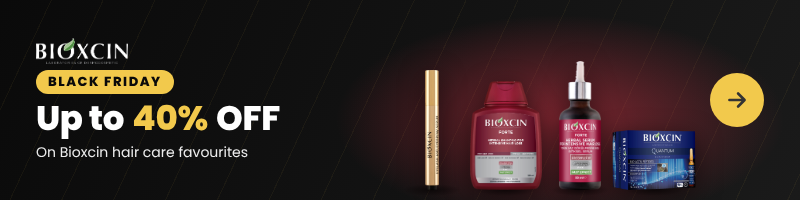
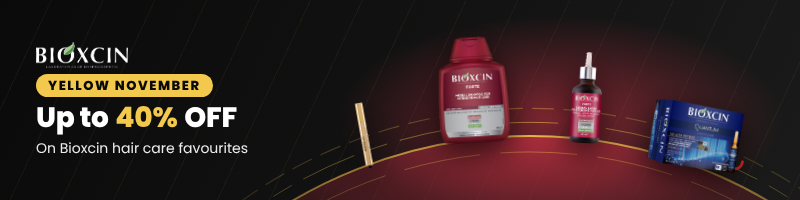
Offer 1: arc layout in all sizes, empty spot for 3D 40%, Yellow November sticker and badge, SALE ribbon and confetti
Claude-Session: https://claude.ai/code/session_01MejyVmSq2aYVYmituLqweB

Changed region(s): [[0.3438, 0.18, 0.9688, 1.0], [0.0312, 0.21, 0.375, 0.81], [0.375, 0.84, 0.4062, 0.87]]

diff --git a/banners/banners.js b/banners/banners.js
@@ -26,6 +26,9 @@ function stickerHTML(offer, lang) {
   const long = Math.max(l1.length, l2.length) > 5;
   const fs = long ? 22 : 34;
   const gid = `bfg-${offer.id}-${lang}`;
+  const [w1, w2] = offer.sticker ?? ["BLACK", "FRIDAY"];
+  const yellow = w1 === "YELLOW";
+  const c1 = yellow ? "#f5c518" : "#d42a2a", c2 = yellow ? "#111" : "#d42a2a";
   // Extruded 3D text: stacked dark copies under a white face.
   const line3d = (t, x, y, size) => {
     const attrs = `text-anchor="middle" font-family="${badgeFont}, sans-serif" font-weight="900" font-size="${size}"`;
@@ -37,12 +40,12 @@ function stickerHTML(offer, lang) {
     <div class="bf-sticker">
       <svg viewBox="0 0 450 350" xmlns="http://www.w3.org/2000/svg">
         <g transform="rotate(-24 210 170)">
-          <path d="M28 168 l14 26 29 4 -21 20 5 29 -27 -14 -26 14 5 -29 -21 -20 29 -4z" fill="#d42a2a"/>
-          <path d="M100 70 H370 L346 112 L370 154 H100 Z" fill="#d42a2a"/>
-          <text x="220" y="128" text-anchor="middle" font-family="Poppins, sans-serif" font-weight="500" font-size="56" fill="#111">BLACK</text>
+          <path d="M28 168 l14 26 29 4 -21 20 5 29 -27 -14 -26 14 5 -29 -21 -20 29 -4z" fill="${c1}"/>
+          <path d="M100 70 H370 L346 112 L370 154 H100 Z" fill="${c1}"/>
+          <text x="220" y="128" text-anchor="middle" font-family="Poppins, sans-serif" font-weight="600" font-size="56" fill="#111" ${w1.length > 5 ? `textLength="220" lengthAdjust="spacingAndGlyphs"` : ""}>${w1}</text>
           <path d="M120 146 q 18 -16 36 0 t 36 0 t 36 0 t 36 0 t 36 0 t 36 0" fill="none" stroke="#fff" stroke-width="9" stroke-linecap="round"/>
           <path d="M80 160 H330 Q340 200 332 240 H86 Q92 220 76 204 Q92 186 80 160 Z" fill="#fff"/>
-          <text x="208" y="222" text-anchor="middle" font-family="Poppins, sans-serif" font-weight="500" font-size="54" fill="#d42a2a">FRIDAY</text>
+          <text x="208" y="222" text-anchor="middle" font-family="Poppins, sans-serif" font-weight="600" font-size="54" fill="${c2}" ${w2.length > 6 ? `textLength="228" lengthAdjust="spacingAndGlyphs"` : ""}>${w2}</text>
         </g>
         ${l1 ? `
         <defs>
@@ -186,11 +189,117 @@ function arcVerticalHTML(offer, size, lang, cls, style) {
     </div>`;
 }
 
+// Geometry of the arc stage per banner size (LTR coordinates; mirrored for RTL).
+const ARC_STAGE = {
+  "mobile-vertical-hero": { x: 60, w: 680, top: 720, base: 340, maxA: 30, slot: { y: 770, h: 210, w: 620 } },
+  "desktop-hero": { x: 560, w: 700, top: 206, base: 175, maxA: 16, slot: { y: 210, h: 84, w: 330 } },
+  "mobile-hero": { x: 300, w: 400, top: 222, base: 175, maxA: 24, slot: { y: 226, h: 88, w: 260 } },
+  "mobile-slim": { x: 330, w: 400, top: 136, base: 118, maxA: 20, slot: { y: 140, h: 56, w: 220 } },
+};
+
+function decoHTML(size, lang, rtl) {
+  // red curly ribbons (confetti) + a SALE ribbon
+  const curl = (x, y, r, sc) =>
+    `<path transform="translate(${x} ${y}) rotate(${r}) scale(${sc})" d="M0 0 C 20 -30 50 -30 60 0 S 100 30 120 0" fill="none" stroke="#d42a2a" stroke-width="14" stroke-linecap="round"/>`;
+  const bits = {
+    "mobile-vertical-hero": [curl(90, 920, 20, 0.6), curl(620, 1000, -30, 0.55), curl(30, 1130, 10, 0.5), curl(690, 1150, -60, 0.45), curl(700, 300, 40, 0.35)],
+    "desktop-hero": [curl(540, 40, 30, 0.3), curl(1250, 270, -20, 0.3)],
+    "mobile-hero": [curl(300, 20, 20, 0.25), curl(660, 290, -30, 0.25)],
+    "mobile-slim": [curl(720, 170, -20, 0.2)],
+  }[size.id] ?? [];
+  const sale = size.id === "mobile-vertical-hero" ? `
+    <g transform="translate(600 380) rotate(-14)">
+      <path d="M0 0 H200 L180 34 L200 68 H0 Z" fill="#d42a2a"/>
+      <path d="M0 68 L-26 92 L0 92 Z" fill="#7a0f0f"/>
+      <text x="96" y="47" text-anchor="middle" font-family="${lang === "ar" ? "Cairo" : "Anton"}, sans-serif" font-weight="900" font-size="38" fill="#fff">${lang === "ar" ? "تخفيضات" : "SALE"}</text>
+    </g>` : "";
+  return `<svg class="arc-deco" viewBox="0 0 ${size.w} ${size.h}" width="${size.w}" height="${size.h}" ${rtl ? `style="transform:scaleX(-1)"` : ""}>${bits.join("")}</svg>
+    ${sale ? `<svg class="arc-deco" viewBox="0 0 ${size.w} ${size.h}" width="${size.w}" height="${size.h}">${sale}</svg>` : ""}`;
+}
+
+function arcStageHTML(offer, size, lang) {
+  const g = ARC_STAGE[size.id];
+  const rtl = lang === "ar";
+  const products = offer.products.slice(0, size.maxProducts);
+  const n = products.length;
+  const x0 = rtl ? size.w - g.x - g.w : g.x;
+  const cx = x0 + g.w / 2;
+  const half = g.w * 0.4;
+  const R = half / Math.sin((g.maxA * Math.PI) / 180);
+  const cy = g.top + R;
+  const id = `${offer.id}-${size.id}-${lang}`;
+  const items = products.map((p, i) => {
+    const a = n === 1 ? 0 : -g.maxA + (2 * g.maxA * i) / (n - 1);
+    const rad = (a * Math.PI) / 180;
+    const x = cx + R * Math.sin(rad), y = cy - R * Math.cos(rad);
+    const h = g.base * (1 - 0.3 * Math.abs(a) / g.maxA) * (p.scale ?? 1);
+    const w = Math.max(h * 0.7, (g.w * 0.8 / n) * 1.1) * (p.zoom ?? 1);
+    return `<div class="arc-item" style="left:${x.toFixed(1)}px;top:${(y + 4).toFixed(1)}px;height:${h.toFixed(0)}px;width:${w.toFixed(0)}px;transform:translate(-50%,-100%) rotate(${(a * 0.5).toFixed(1)}deg)">
+        ${p.image ? `<img src="${esc(p.image)}" alt="">` : ""}</div>`;
+  }).join("");
+  const arc = (r, w, op, dash) =>
+    `<path d="M ${cx - r} ${cy} A ${r} ${r} 0 0 1 ${cx + r} ${cy}" fill="none" stroke="url(#arcg-${id})" stroke-width="${w}" stroke-opacity="${op}" stroke-linecap="round" ${dash ? `stroke-dasharray="${dash}"` : ""}/>`;
+  const k = g.base / 340; // scale line spacing to banner size
+  const slot = offer.bigNum?.image
+    ? `<img class="arc-slot" src="${esc(offer.bigNum.image)}" style="left:${cx - g.slot.w / 2}px;top:${g.slot.y}px;width:${g.slot.w}px;height:${g.slot.h}px" alt="">`
+    : `<div class="arc-slot" style="left:${cx - g.slot.w / 2}px;top:${g.slot.y}px;width:${g.slot.w}px;height:${g.slot.h}px"></div>`;
+  return `
+    <svg class="arc-lines" viewBox="0 0 ${size.w} ${size.h}" width="${size.w}" height="${size.h}">
+      <defs>
+        <linearGradient id="arcg-${id}" x1="0" x2="1">
+          <stop offset="0" stop-color="#f2c94c" stop-opacity="0"/><stop offset=".5" stop-color="#f2c94c"/><stop offset="1" stop-color="#f2c94c" stop-opacity="0"/>
+        </linearGradient>
+        <radialGradient id="dome-${id}" cx="50%" cy="0%" r="90%">
+          <stop offset="0" stop-color="${offer.theme.glow}" stop-opacity=".6"/><stop offset=".6" stop-color="#0a0a0a" stop-opacity=".2"/><stop offset="1" stop-color="#0a0a0a" stop-opacity="0"/>
+        </radialGradient>
+      </defs>
+      <path d="M ${cx - R} ${cy} A ${R} ${R} 0 0 1 ${cx + R} ${cy} Z" fill="url(#dome-${id})"/>
+      ${arc(R, Math.max(2, 4 * k), 0.9)}
+      ${arc(R + 40 * k, Math.max(1, 2 * k), 0.55, `${160 * k} ${40 * k} ${60 * k} ${40 * k}`)}
+      ${arc(R + 80 * k, 1.2, 0.35, `${60 * k} ${30 * k}`)}
+      ${arc(R - 46 * k, Math.max(1, 2 * k), 0.4, `${220 * k} ${60 * k}`)}
+    </svg>
+    ${decoHTML(size, lang, rtl)}
+    ${items}
+    ${slot}`;
+}
+
+function arcBannerHTML(offer, size, lang, cls, style) {
+  const rtl = lang === "ar";
+  const cta = `<span class="cta">${txt(offer.cta[lang])}<span class="arrow">${rtl ? "←" : "→"}</span></span>`;
+  const vertical = size.id === "mobile-vertical-hero";
+  const sticker = vertical || size.id === "desktop-hero";
+  return `
+    <div class="banner arcb ${cls} ${sticker ? "has-sticker" : ""}" dir="${rtl ? "rtl" : "ltr"}" lang="${lang}"
+         data-file="${offer.id}/${size.device}-${lang}-${size.w}x${size.h}.png" style="${style}">
+      ${sticker ? stickerHTML({ ...offer, stickerBadge: null }, lang) : ""}
+      ${arcStageHTML(offer, size, lang)}
+      ${vertical ? `
+        <div class="arc-top">
+          ${logoHTML(lang)}
+          <h2 class="headline">${txt(offer.headline[lang], "hl-num")}</h2>
+          ${offer.sub[lang] ? `<p class="sub">${txt(offer.sub[lang])}</p>` : ""}
+        </div>
+        <div class="arc-cta">${cta}</div>` : `
+        <div class="copy">
+          ${logoHTML(lang)}
+          <div class="badge">${txt(offer.badge[lang])}</div>
+          <h2 class="headline">${txt(offer.headline[lang], "hl-num")}</h2>
+          ${offer.sub[lang] ? `<p class="sub">${txt(offer.sub[lang])}</p>` : ""}
+          <div class="actions">${cta}</div>
+        </div>`}
+    </div>`;
+}
+
 function bannerHTML(offer, size, lang) {
   const t = offer.theme;
   const products = offer.products.slice(0, size.maxProducts);
   const showNames = size.id === "mobile-vertical-hero" || size.id === "desktop-hero";
   const code = offer.code?.[lang];
+  if (offer.layout === "arc" && ARC_STAGE[size.id]) {
+    return arcBannerHTML(offer, size, lang, `${offer.id} ${size.id} hl-${window.HL_STYLE || HEADLINE_STYLE} pat-${window.PATTERN_OVERRIDE || PATTERN} n${products.length}`,
+      `width:${size.w}px;height:${size.h}px;--from:${t.from};--to:${t.to};--accent:${t.accent};--glow:${t.glow || t.to};--text:${t.text}`);
+  }
   if ((window.ARC_OVERRIDE ?? ARC) && size.id === "mobile-vertical-hero") {
     return arcVerticalHTML(offer, size, lang, `${offer.id} ${size.id} hl-${window.HL_STYLE || HEADLINE_STYLE} pat-${window.PATTERN_OVERRIDE || PATTERN} n${products.length}`,
       `width:${size.w}px;height:${size.h}px;--from:${t.from};--to:${t.to};--accent:${t.accent};--glow:${t.glow || t.to};--text:${t.text}`);

diff --git a/banners/banners.css b/banners/banners.css
@@ -520,3 +520,28 @@ img.logo { object-fit: contain; }
 .arc-item img { max-width: 200px; }
 .arc .arc-glow { display: none; }
 .arc-cta { bottom: 60px; }
+
+/* ---------- ARC layout (offer.layout = "arc") ---------- */
+.banner.arcb .arc-deco { position: absolute; inset: 0; z-index: 2; pointer-events: none; }
+.banner.arcb .arc-lines { position: absolute; inset: 0; z-index: 1; pointer-events: none; }
+.banner.arcb .arc-item { position: absolute; z-index: 3; transform-origin: 50% 100%; filter: drop-shadow(0 10px 14px rgba(0,0,0,.65)); display: flex; justify-content: center; align-items: flex-end; }
+.banner.arcb .arc-item img { height: 100%; width: 100%; object-fit: contain; object-position: bottom; display: block; }
+.banner.arcb .arc-slot { position: absolute; z-index: 3; object-fit: contain; }
+.banner.arcb .copy { z-index: 4; }
+.banner.arcb.mobile-vertical-hero { display: block; }
+.banner.arcb .arc-top { position: absolute; z-index: 4; top: 50px; left: 0; right: 0; display: flex; flex-direction: column; align-items: center; gap: 14px; text-align: center; }
+.banner.arcb .arc-top img.logo { height: 70px; margin-bottom: 18px; }
+.banner.arcb .arc-top .headline { font-size: 76px; }
+.banner.arcb[dir="rtl"] .arc-top .headline { font-size: 66px; }
+.banner.arcb .arc-top .sub { font-size: 26px; }
+.banner.arcb .arc-cta { position: absolute; z-index: 4; left: 0; right: 0; bottom: 70px; display: flex; justify-content: center; }
+.banner.arcb .arc-cta .cta { font-size: 30px; padding: 18px 54px; }
+.banner.arcb.mobile-vertical-hero .bf-sticker { width: 200px; top: 14px; inset-inline-start: auto; inset-inline-end: 10px; }
+.banner.arcb.desktop-hero .bf-sticker { width: 150px; top: 6px; inset-inline-start: auto; inset-inline-end: 14px; }
+.banner.arcb.desktop-hero .copy { flex-basis: 470px; }
+.banner.arcb.desktop-hero .badge { visibility: visible; }
+.banner.arcb.mobile-hero .copy { flex-basis: 270px; }
+.banner.arcb.mobile-hero .headline { font-size: 32px; }
+.banner.arcb.mobile-slim .copy { flex: 0 0 300px; }
+.banner.arcb.mobile-slim .headline { font-size: 28px; }
+.banner.arcb.mobile-slim::after { display: none; }

diff --git a/banners/offers.js b/banners/offers.js
@@ -44,7 +44,9 @@ const OFFERS = [
     theme: { from: "#0a0a0a", to: "#1a1a1a", accent: "#f2c94c", glow: "#d63447", text: "#ffffff" },
     stickerBadge: { en: "40%|OFF", ar: "40%|OFF" }, // round badge on the BLACK FRIDAY sticker ("|" = new line)
     bigNum: { pre: { en: "", ar: "" }, num: "", image: "", post: { en: "", ar: "" } }, // image = your 3D artwork (e.g. "products/40-3d.png"); empty = blank space
-    badge: { en: "BLACK FRIDAY", ar: "بلاك فرايداي" },
+    layout: "arc", // products on a half-circle + empty spot for the 3D number (bigNum.image)
+    sticker: ["YELLOW", "NOVEMBER"], // ribbon sticker words
+    badge: { en: "YELLOW NOVEMBER", ar: "نوفمبر الأصفر" },
     headline: { en: "Up to 40% OFF", ar: "خصم يصل إلى 40%" },
     sub: { en: "On Bioxcin hair care favourites", ar: "على منتجات بيوكسين للعناية بالشعر" },
     cta: { en: "Shop Now", ar: "تسوّق الآن" },
